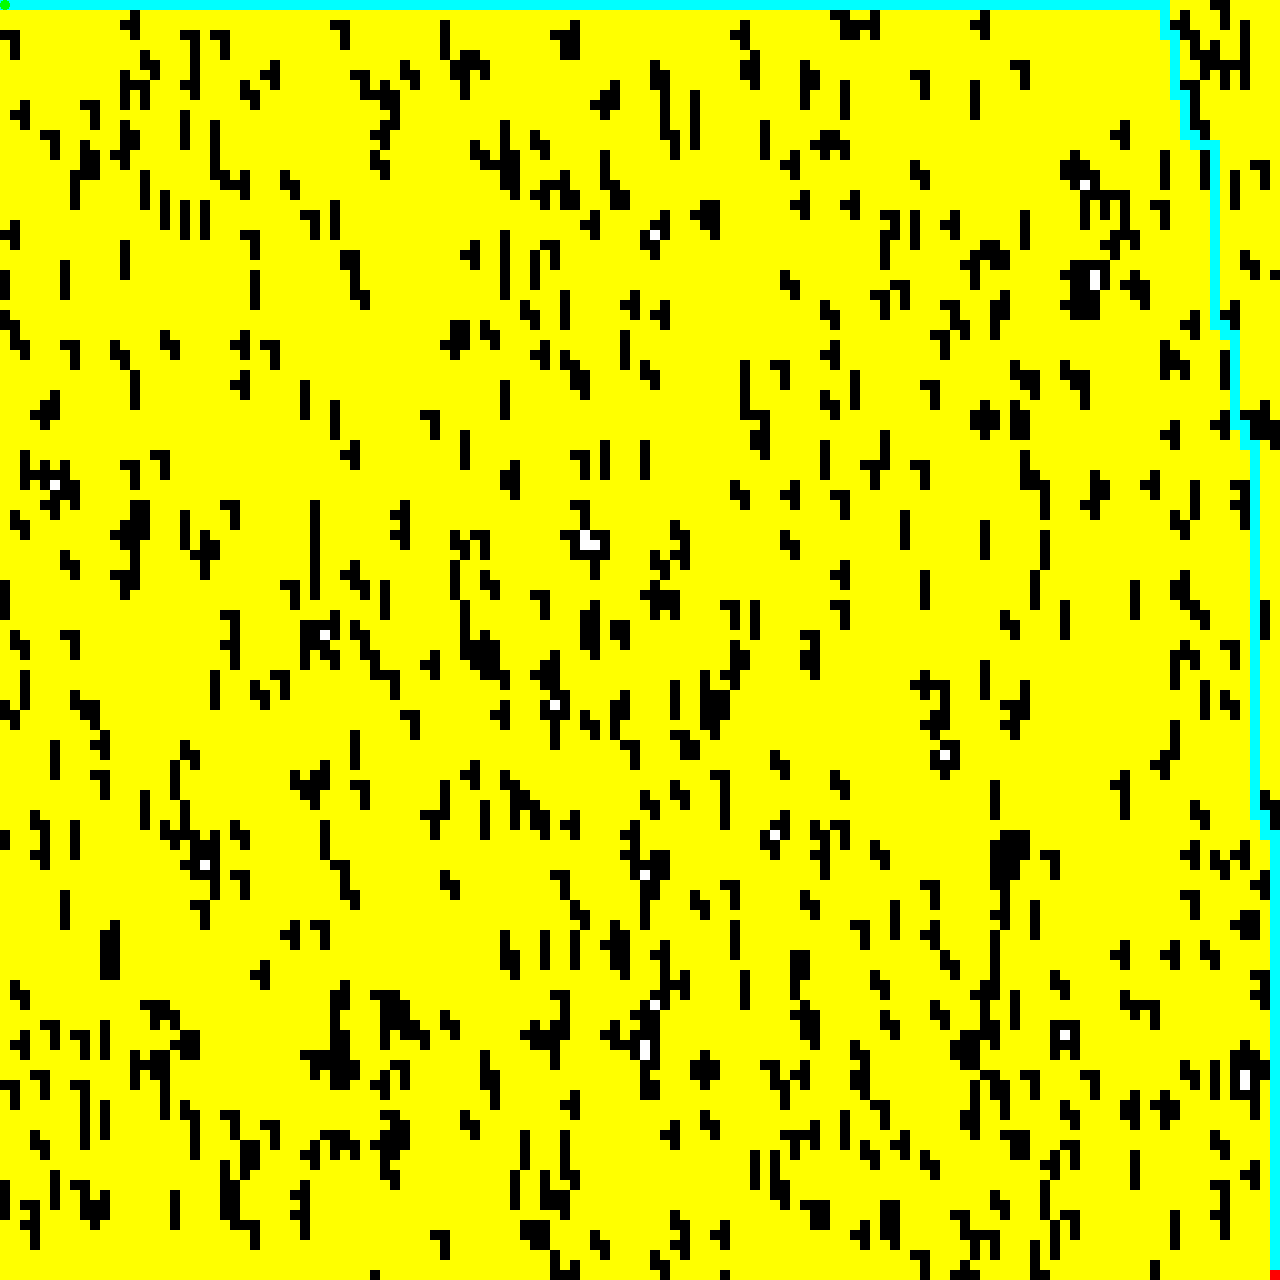
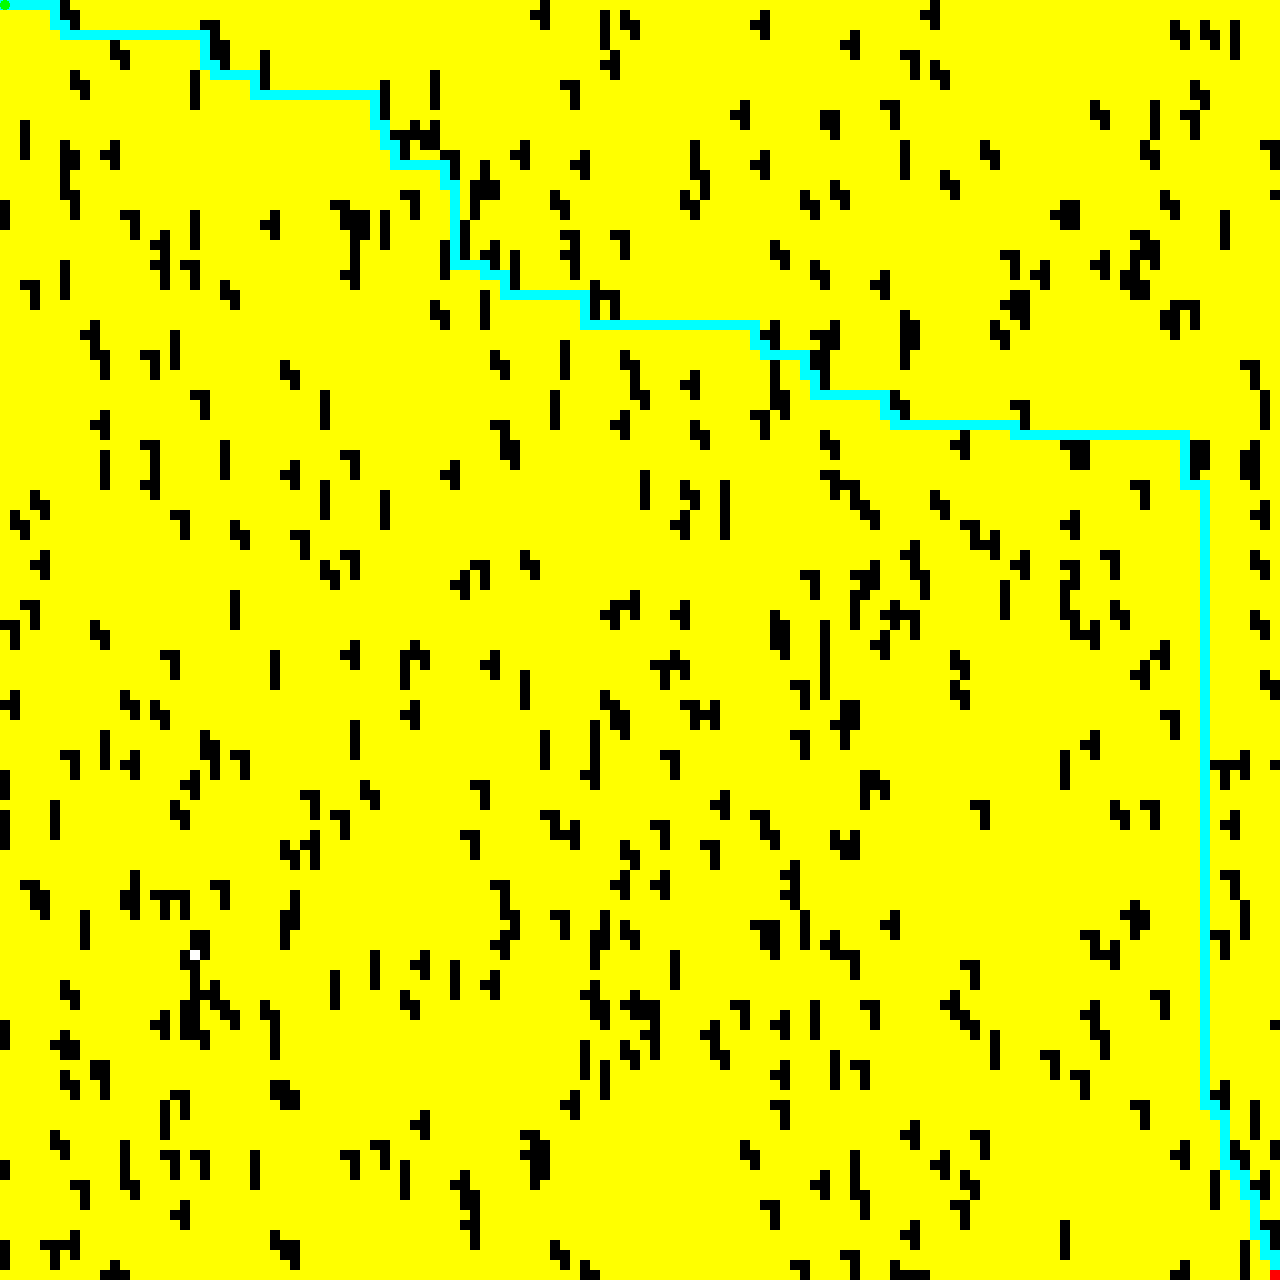
Add Random Path Planner

diff --git a/HW1 - Flatland/main.cpp b/HW1 - Flatland/main.cpp
@@ -50,6 +50,7 @@
 /**
  * @brief Types of Searches
  */
+#define RANDOM_SEARCH "Random Search"
 #define BFS_SEARCH "BFS Search"
 #define DFS_SEARCH "DFS Search"
 #define DIJKSTRA_SEARCH "Dijkstra Search"
@@ -120,6 +121,7 @@ private:
     bool is_down_right_empty(std::uint8_t x, std::uint8_t y, bool mark_location);
     std::uint16_t itemize_path(std::string path);
     void display_path(void);
+    std::uint16_t random_search(sf::RenderWindow *display_window, bool show_search_animation);
     std::uint16_t bfs_search(sf::RenderWindow *display_window, bool show_search_animation);
     std::uint16_t dfs_search(sf::RenderWindow *display_window, bool show_search_animation);
     std::uint16_t dijkstra_search(sf::RenderWindow *display_windows, bool show_search_animation);
@@ -164,6 +166,10 @@ int main(int argc, char *argv[])
 
         // Initialize Path Planner
         StartSearch *plan_path = new StartSearch(entry_point[0], entry_point[1], exit_point[0], exit_point[1]);
+
+        // Random Search
+        sf::RenderWindow *search0 = grid->clear_grid(false, false, RANDOM_SEARCH);
+        std::uint16_t random_steps = plan_path->initiate_search(RANDOM_SEARCH, search0, true);
 
         // Breadth-First Search
         sf::RenderWindow *search1 = grid->clear_grid(false, false, BFS_SEARCH);
@@ -720,6 +726,132 @@ void StartSearch::display_path(void)
 /*                           PATH PLANNING FUNCTIONS                          */
 /* -------------------------------------------------------------------------- */
 
+/* ------------------------------ RANDOM SEARCH ----------------------------- */
+
+/**
+ * @brief Perform Random Search
+ *
+ * @param display_window Pointer to the display window
+ * @param show_search_animation True -> Show Search Animation
+ *                                  False -> Hide Search Animation
+ * @return std::uint16_t Number of Steps
+ */
+std::uint16_t StartSearch::random_search(sf::RenderWindow *display_window, bool show_search_animation)
+{
+    this->window = display_window; // Update the pointer to the window
+
+    // Initialize LIFO Stack to store Neighbour Information
+    std::vector<std::uint8_t> x_stack, y_stack;
+    std::vector<std::string> move_stack;
+
+    bool path_found = false; // Boolean to determine whether the path is found or not
+
+    // Push the Start Node to Stack
+    y_stack.push_back(start_pos[0]);
+    x_stack.push_back(start_pos[1]);
+    move_stack.push_back("");
+
+    grid_array[start_pos[0]][start_pos[1]] = BLOCK_VISITED; // Mark the Start as visited
+
+    // Setup marker to mark the visited blocks
+    sf::RectangleShape mapping_marker(sf::Vector2f(PIXEL_WIDTH, PIXEL_WIDTH));
+    mapping_marker.setFillColor(MAPPING_COLOR);
+
+    std::uint8_t count = 1; // To Name the Image Uniquely
+    std::string files;
+
+    // Pop the last element from the Stack
+    std::uint8_t x = start_pos[1];
+    std::uint8_t y = start_pos[0];
+    std::string path;
+
+    while (!x_stack.empty())
+    {
+        x_stack.clear();
+        y_stack.clear();
+        move_stack.clear();
+
+        // Mark the Current node as visited
+        sf::Vector2f mapped_pos = sf::Vector2f(x * PIXEL_WIDTH, y * PIXEL_WIDTH);
+        mapping_marker.setPosition(mapped_pos);
+        window->draw(mapping_marker);
+
+        if (show_search_animation) // Update the Grid for Visualization
+            window->display();     // Update display every iteration
+
+#ifdef GENERATE_GIF
+        std::string file_name = "Images/rand" + std::to_string(count) + ".png";
+        files += file_name + " ";
+        sf::Texture texture;
+        texture.create(window->getSize().x, window->getSize().y);
+        texture.update(*window);
+        if (texture.copyToImage().saveToFile(file_name))
+            std::cout << "Screenshot Saved as " << file_name << std::endl;
+        count++;
+#endif // GENERATE_GIF
+
+        if ((y == end_pos[0]) && (x == end_pos[1])) // Break if end point reached
+        {
+            path_found = true;
+            move_stack.push_back(path);
+            break;
+        }
+
+        // Look for surrounding Neighbors, if empty then add them to stack and mark them as visited
+        if (is_up_empty(x, y, true))
+        {
+            x_stack.push_back(x);
+            y_stack.push_back(y - 1);
+            move_stack.push_back(path + 'U');
+        }
+        if (is_left_empty(x, y, true))
+        {
+            x_stack.push_back(x - 1);
+            y_stack.push_back(y);
+            move_stack.push_back(path + 'L');
+        }
+        if (is_down_empty(x, y, true))
+        {
+            x_stack.push_back(x);
+            y_stack.push_back(y + 1);
+            move_stack.push_back(path + 'D');
+        }
+        if (is_right_empty(x, y, true))
+        {
+            x_stack.push_back(x + 1);
+            y_stack.push_back(y);
+            move_stack.push_back(path + 'R');
+        }
+        if (!x_stack.empty())
+        {
+            std::uint8_t pos = rand() % x_stack.size();
+            x = x_stack[pos];
+            y = y_stack[pos];
+            path = move_stack[pos];
+        }
+        else
+            break;
+    }
+
+    std::uint16_t steps = 0;
+    if (path_found)
+    {
+        // std::cout << "Search Complete: " << move_stack.back() << std::endl;
+        steps = itemize_path(move_stack.back()); // Break the Path Strings into coordinated and display them
+
+#ifdef GENERATE_GIF
+        std::string file_search = "Images/rand*.png";
+        std::string command = "convert -delay 10 -loop 0 " + files + " Images/gif.gif " + " Images/random.gif ";
+        std::cout << command + "\n";
+        system(command.c_str());
+        system("rm Images/rand*.png Images/gif.gif");
+#endif // GENERATE_GIF
+    }
+    else
+        std::cout << "Search Failed!" << std::endl;
+    return steps;
+}
+
 /* ------------------------- BREADTH - FIRST SEARCH ------------------------- */
 
 /**
@@ -1263,7 +1395,12 @@ StartSearch::StartSearch(std::uint8_t start_position_y, std::uint8_t start_posit
 std::uint16_t StartSearch::initiate_search(std::string search_type, sf::RenderWindow *window, bool show_search_animation)
 {
     this->position_list.clear();
-    if (search_type == BFS_SEARCH)
+    if (search_type == RANDOM_SEARCH)
+    {
+        this->search_type = RANDOM_SEARCH;
+        return random_search(window, show_search_animation);
+    }
+    else if (search_type == BFS_SEARCH)
     {
         this->search_type = BFS_SEARCH;
         return bfs_search(window, show_search_animation);
